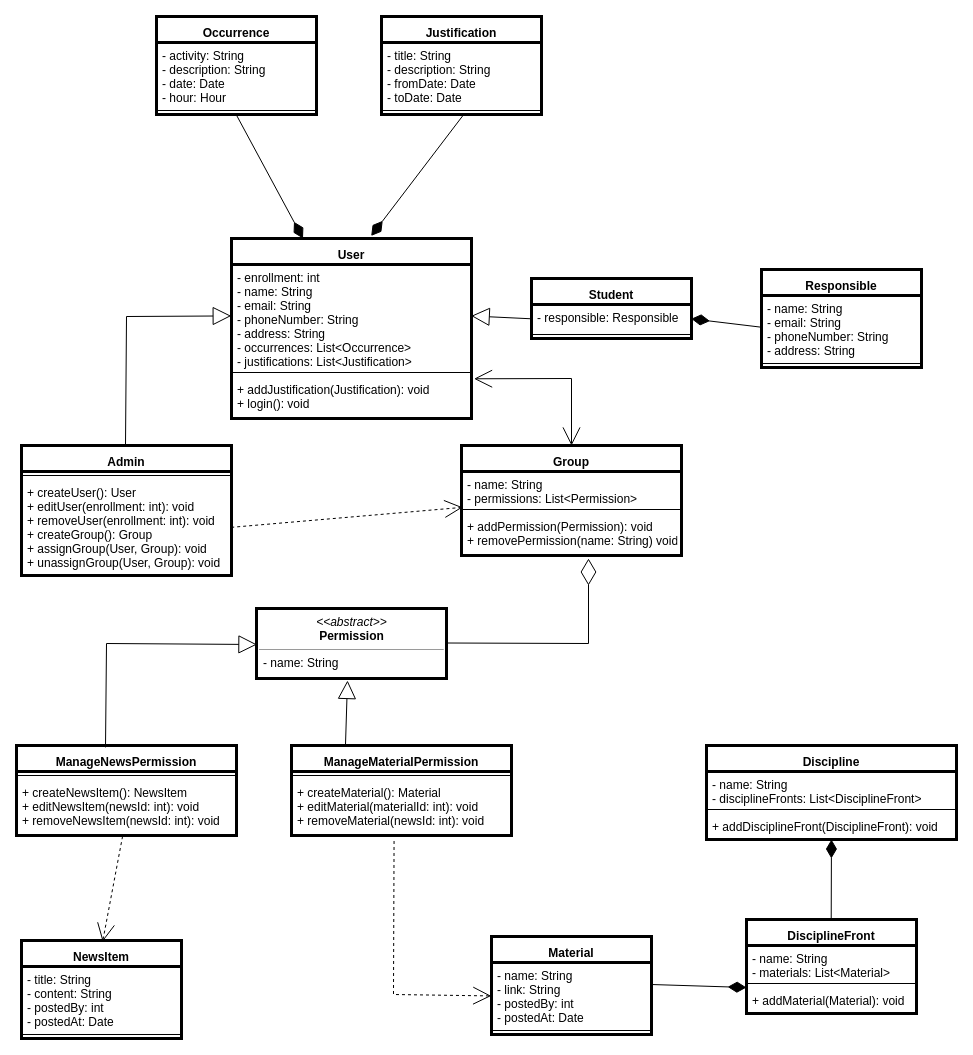
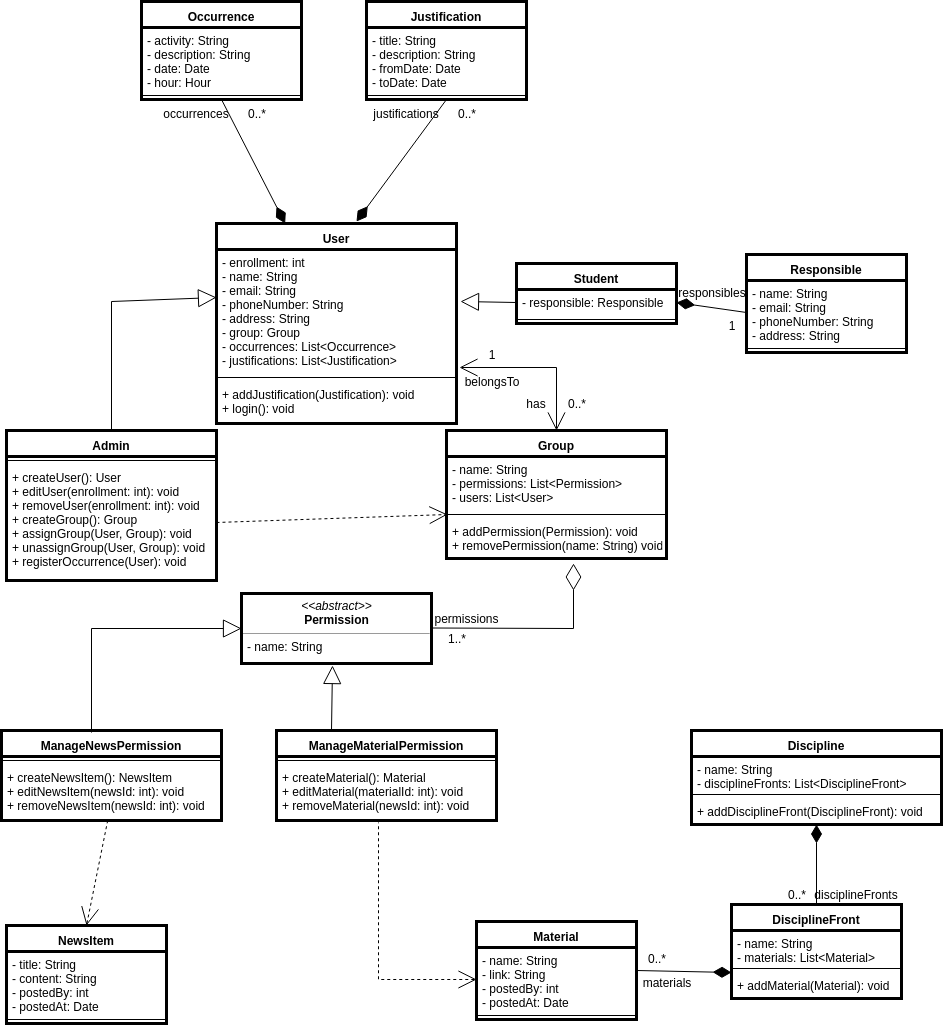
Deployed 28dee09 with MkDocs version: 0.17.3

diff --git a/arquitetura/diagrama_classes/index.html b/arquitetura/diagrama_classes/index.html
@@ -70,7 +70,7 @@
     <input class="md-toggle" data-md-toggle="search" type="checkbox" id="search" autocomplete="off">
     <label class="md-overlay" data-md-component="overlay" for="drawer"></label>
     
-      <a href="#historico-de-revisoes" tabindex="1" class="md-skip">
+      <a href="#diagrama-de-classes" tabindex="1" class="md-skip">
         Skip to content
       </a>
     
@@ -460,9 +460,52 @@
       
     
     
+      <label class="md-nav__link md-nav__link--active" for="toc">
+        Diagrama de Classes
+      </label>
+    
     <a href="./" title="Diagrama de Classes" class="md-nav__link md-nav__link--active">
       Diagrama de Classes
     </a>
+    
+      
+<nav class="md-nav md-nav--secondary">
+  
+  
+    
+  
+  
+    <label class="md-nav__title" for="toc">Table of contents</label>
+    <ul class="md-nav__list" data-md-scrollfix>
+      
+        <li class="md-nav__item">
+  <a href="#historico-de-revisoes" title="Histórico de Revisões" class="md-nav__link">
+    Histórico de Revisões
+  </a>
+  
+</li>
+      
+        <li class="md-nav__item">
+  <a href="#versao-atual" title="Versão Atual" class="md-nav__link">
+    Versão Atual
+  </a>
+  
+</li>
+      
+        <li class="md-nav__item">
+  <a href="#esbocos-iniciais" title="Esboços Iniciais" class="md-nav__link">
+    Esboços Iniciais
+  </a>
+  
+</li>
+      
+      
+      
+      
+      
+    </ul>
+  
+</nav>
     
   </li>
 
@@ -645,6 +688,36 @@
     
   
   
+    <label class="md-nav__title" for="toc">Table of contents</label>
+    <ul class="md-nav__list" data-md-scrollfix>
+      
+        <li class="md-nav__item">
+  <a href="#historico-de-revisoes" title="Histórico de Revisões" class="md-nav__link">
+    Histórico de Revisões
+  </a>
+  
+</li>
+      
+        <li class="md-nav__item">
+  <a href="#versao-atual" title="Versão Atual" class="md-nav__link">
+    Versão Atual
+  </a>
+  
+</li>
+      
+        <li class="md-nav__item">
+  <a href="#esbocos-iniciais" title="Esboços Iniciais" class="md-nav__link">
+    Esboços Iniciais
+  </a>
+  
+</li>
+      
+      
+      
+      
+      
+    </ul>
+  
 </nav>
                   </div>
                 </div>
@@ -656,7 +729,8 @@
               
                 
                 
-                <h2 id="historico-de-revisoes">Histórico de Revisões</h2>
+                <h1 id="diagrama-de-classes">Diagrama de Classes</h1>
+<h2 id="historico-de-revisoes">Histórico de Revisões</h2>
 <table>
 <thead>
 <tr>
@@ -673,10 +747,29 @@
 <td align="center">Versão Inicial do Diagrama</td>
 <td align="center">Felipe Hargreaves</td>
 </tr>
+<tr>
+<td align="center">04/04/2018</td>
+<td align="center">1.1</td>
+<td align="center">Cardinalidades e semântica</td>
+<td align="center">Clarissa Borges</td>
+</tr>
+<tr>
+<td align="center">05/04/2018</td>
+<td align="center">1.2</td>
+<td align="center">Esboços Iniciais</td>
+<td align="center">Felipe Hargreaves</td>
+</tr>
 </tbody>
 </table>
-<h1 id="diagrama-de-classes">Diagrama de Classes</h1>
+<hr />
+<h2 id="versao-atual">Versão Atual</h2>
+<p>Aqui se encontra a versão mais atual do diagrama. À medida que o sistema evolui, deve ser gerada uma versão nova do modelo, se necessário.<br><br></p>
 <p><img alt="Diagrama de Classes" src="../../img/Classes/class_diagram.png" /></p>
+<h2 id="esbocos-iniciais">Esboços Iniciais</h2>
+<p>A título de rastreabilidade, se incluem aqui algumas versões primitivas do diagrama. Nestas o foco maior era em se modelar o domínio geral da aplicação, e destaca-se que não há grande precisão com as particularidades técnicas do artefato.</p>
+<p>A mudança mais importante destes esboços iniciais em comparação a versões mais sofisticadas do diagrama diz respeito à organização dos diferentes tipos de usuário e suas permissões no sistema. Aqui se visualiza uma estrutura de heranças que corresponde de certa forma à hierarquia que existe nos diferentes setores do Projeto. Essa abordagem se mostrou difícil de transcrever para o modelo, pois as funções diferentes exercidas por cada tipo de membro não se adaptam de forma clara a um sistema de heranças. A alternativa adotada foi a de um sistema de grupos e permissões, removendo essas responsabilidades das classes de usuário.</p>
+<p><img alt="Esboço 2" src="../../img/Classes/esboco2.jpg" />
+<img alt="Esboço 1" src="../../img/Classes/esboco1.jpg" /></p>
                 
                   
                 

diff --git a/requisitos/istar/index.html b/requisitos/istar/index.html
@@ -329,6 +329,26 @@
     i* - Strategic Rationale Model - SR
   </a>
   
+    <nav class="md-nav">
+      <ul class="md-nav__list">
+        
+          <li class="md-nav__item">
+  <a href="#1a-versao" title="1ª versão" class="md-nav__link">
+    1ª versão
+  </a>
+  
+</li>
+        
+          <li class="md-nav__item">
+  <a href="#2a-versao-pos-revisoes" title="2ª Versão - pós revisões" class="md-nav__link">
+    2ª Versão - pós revisões
+  </a>
+  
+</li>
+        
+      </ul>
+    </nav>
+  
 </li>
       
         <li class="md-nav__item">
@@ -717,6 +737,26 @@
     i* - Strategic Rationale Model - SR
   </a>
   
+    <nav class="md-nav">
+      <ul class="md-nav__list">
+        
+          <li class="md-nav__item">
+  <a href="#1a-versao" title="1ª versão" class="md-nav__link">
+    1ª versão
+  </a>
+  
+</li>
+        
+          <li class="md-nav__item">
+  <a href="#2a-versao-pos-revisoes" title="2ª Versão - pós revisões" class="md-nav__link">
+    2ª Versão - pós revisões
+  </a>
+  
+</li>
+        
+      </ul>
+    </nav>
+  
 </li>
       
         <li class="md-nav__item">
@@ -743,7 +783,9 @@
               
                 
                 
-                <h1 id="i-modelagem-intencional">I* - Modelagem Intencional</h1>
+                <style> p { text-align: justify; text-indent: 30px; } </style>
+
+<h1 id="i-modelagem-intencional">I* - Modelagem Intencional</h1>
 <h3 id="historico-de-revisoes">Histórico de Revisões</h3>
 <table>
 <thead>
@@ -773,13 +815,23 @@
 <td align="center">Adição do Strategic Dependency Model</td>
 <td align="center">Halê</td>
 </tr>
+<tr>
+<td align="center">05/04/2018</td>
+<td align="center">1.3</td>
+<td align="center">Segunda Versão do SR</td>
+<td align="center">Letícia</td>
+</tr>
 </tbody>
 </table>
+<hr />
 <p>O termo I* refere-se ao conceito de intencionalidade distribuída, sendo assim, esse framework propõe uma abordagem orientada a agentes para a engenharia de requisitos, centrando-se nas características intencionais do agente. Os agentes atribuem propriedades intencionais entre si e racionam sobre relacionamentos estratégicos. As dependências entre os agentes geram oportunidades e vulnerabilidades. As dependências são analisadas usando uma abordagem de raciocínio qualitativo. Os agentes consideram configurações alternativas de dependências para avaliar seu posicionamento estratégico  em um contexto.</p>
 <h2 id="i-strategic-dependency-model-sd">i* - Strategic Dependency Model - SD</h2>
 <p><img alt="Modelo representativo SD" src="../../img/istar/SD_Hale.png" /></p>
 <h2 id="i-strategic-rationale-model-sr">i* - Strategic Rationale Model - SR</h2>
-<p><img alt="Modelo representativo SR" src="../../img/istar/SR_Leticia.png" /></p>
+<h3 id="1a-versao">1ª versão</h3>
+<p><img alt="Outro Modelo representativo" src="../../img/istar/SR_Leticia.png" /></p>
+<h3 id="2a-versao-pos-revisoes">2ª Versão - pós revisões</h3>
+<p><img alt="Segunda versão" src="../../img/istar/SR_revisado_Leticia.png" /></p>
 <h2 id="referencias"><strong>Referências</strong></h2>
 <p>1.CS Toronto. i* an agent- and goal-oriented modelling framework. Disponível Aqui. Acesso em: 1 de outubro de 2017.</p>
 <ol>
